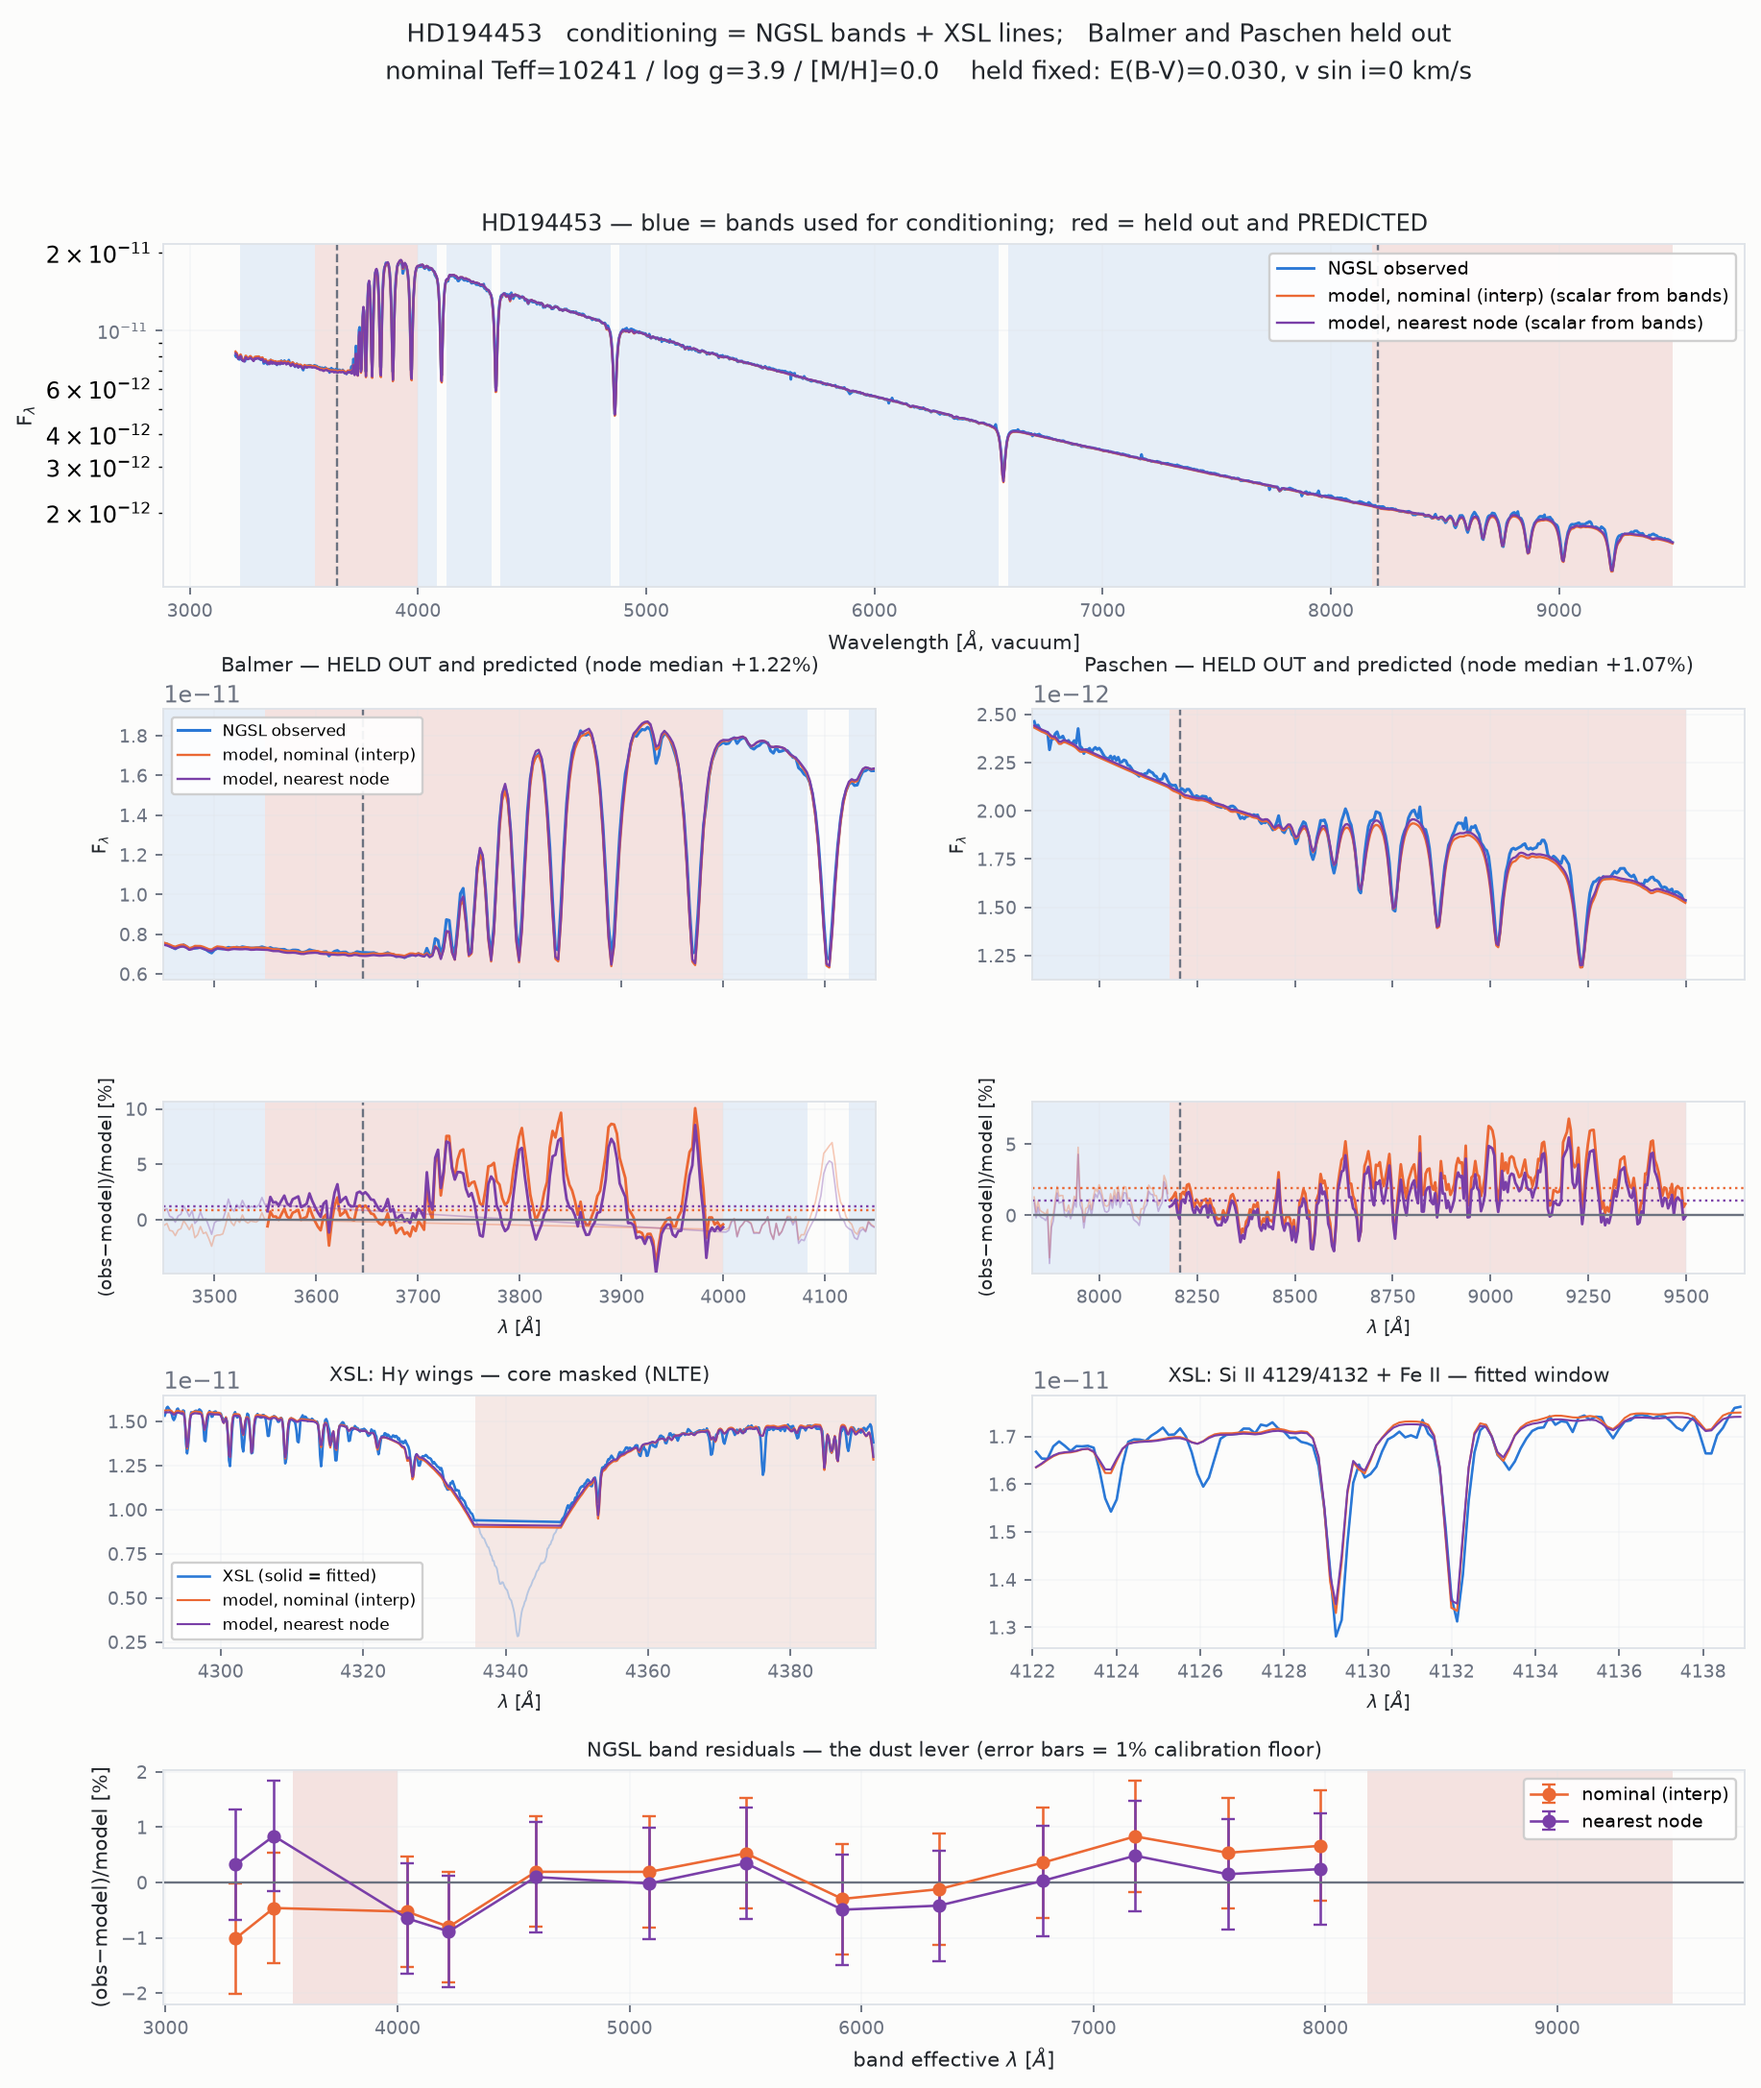
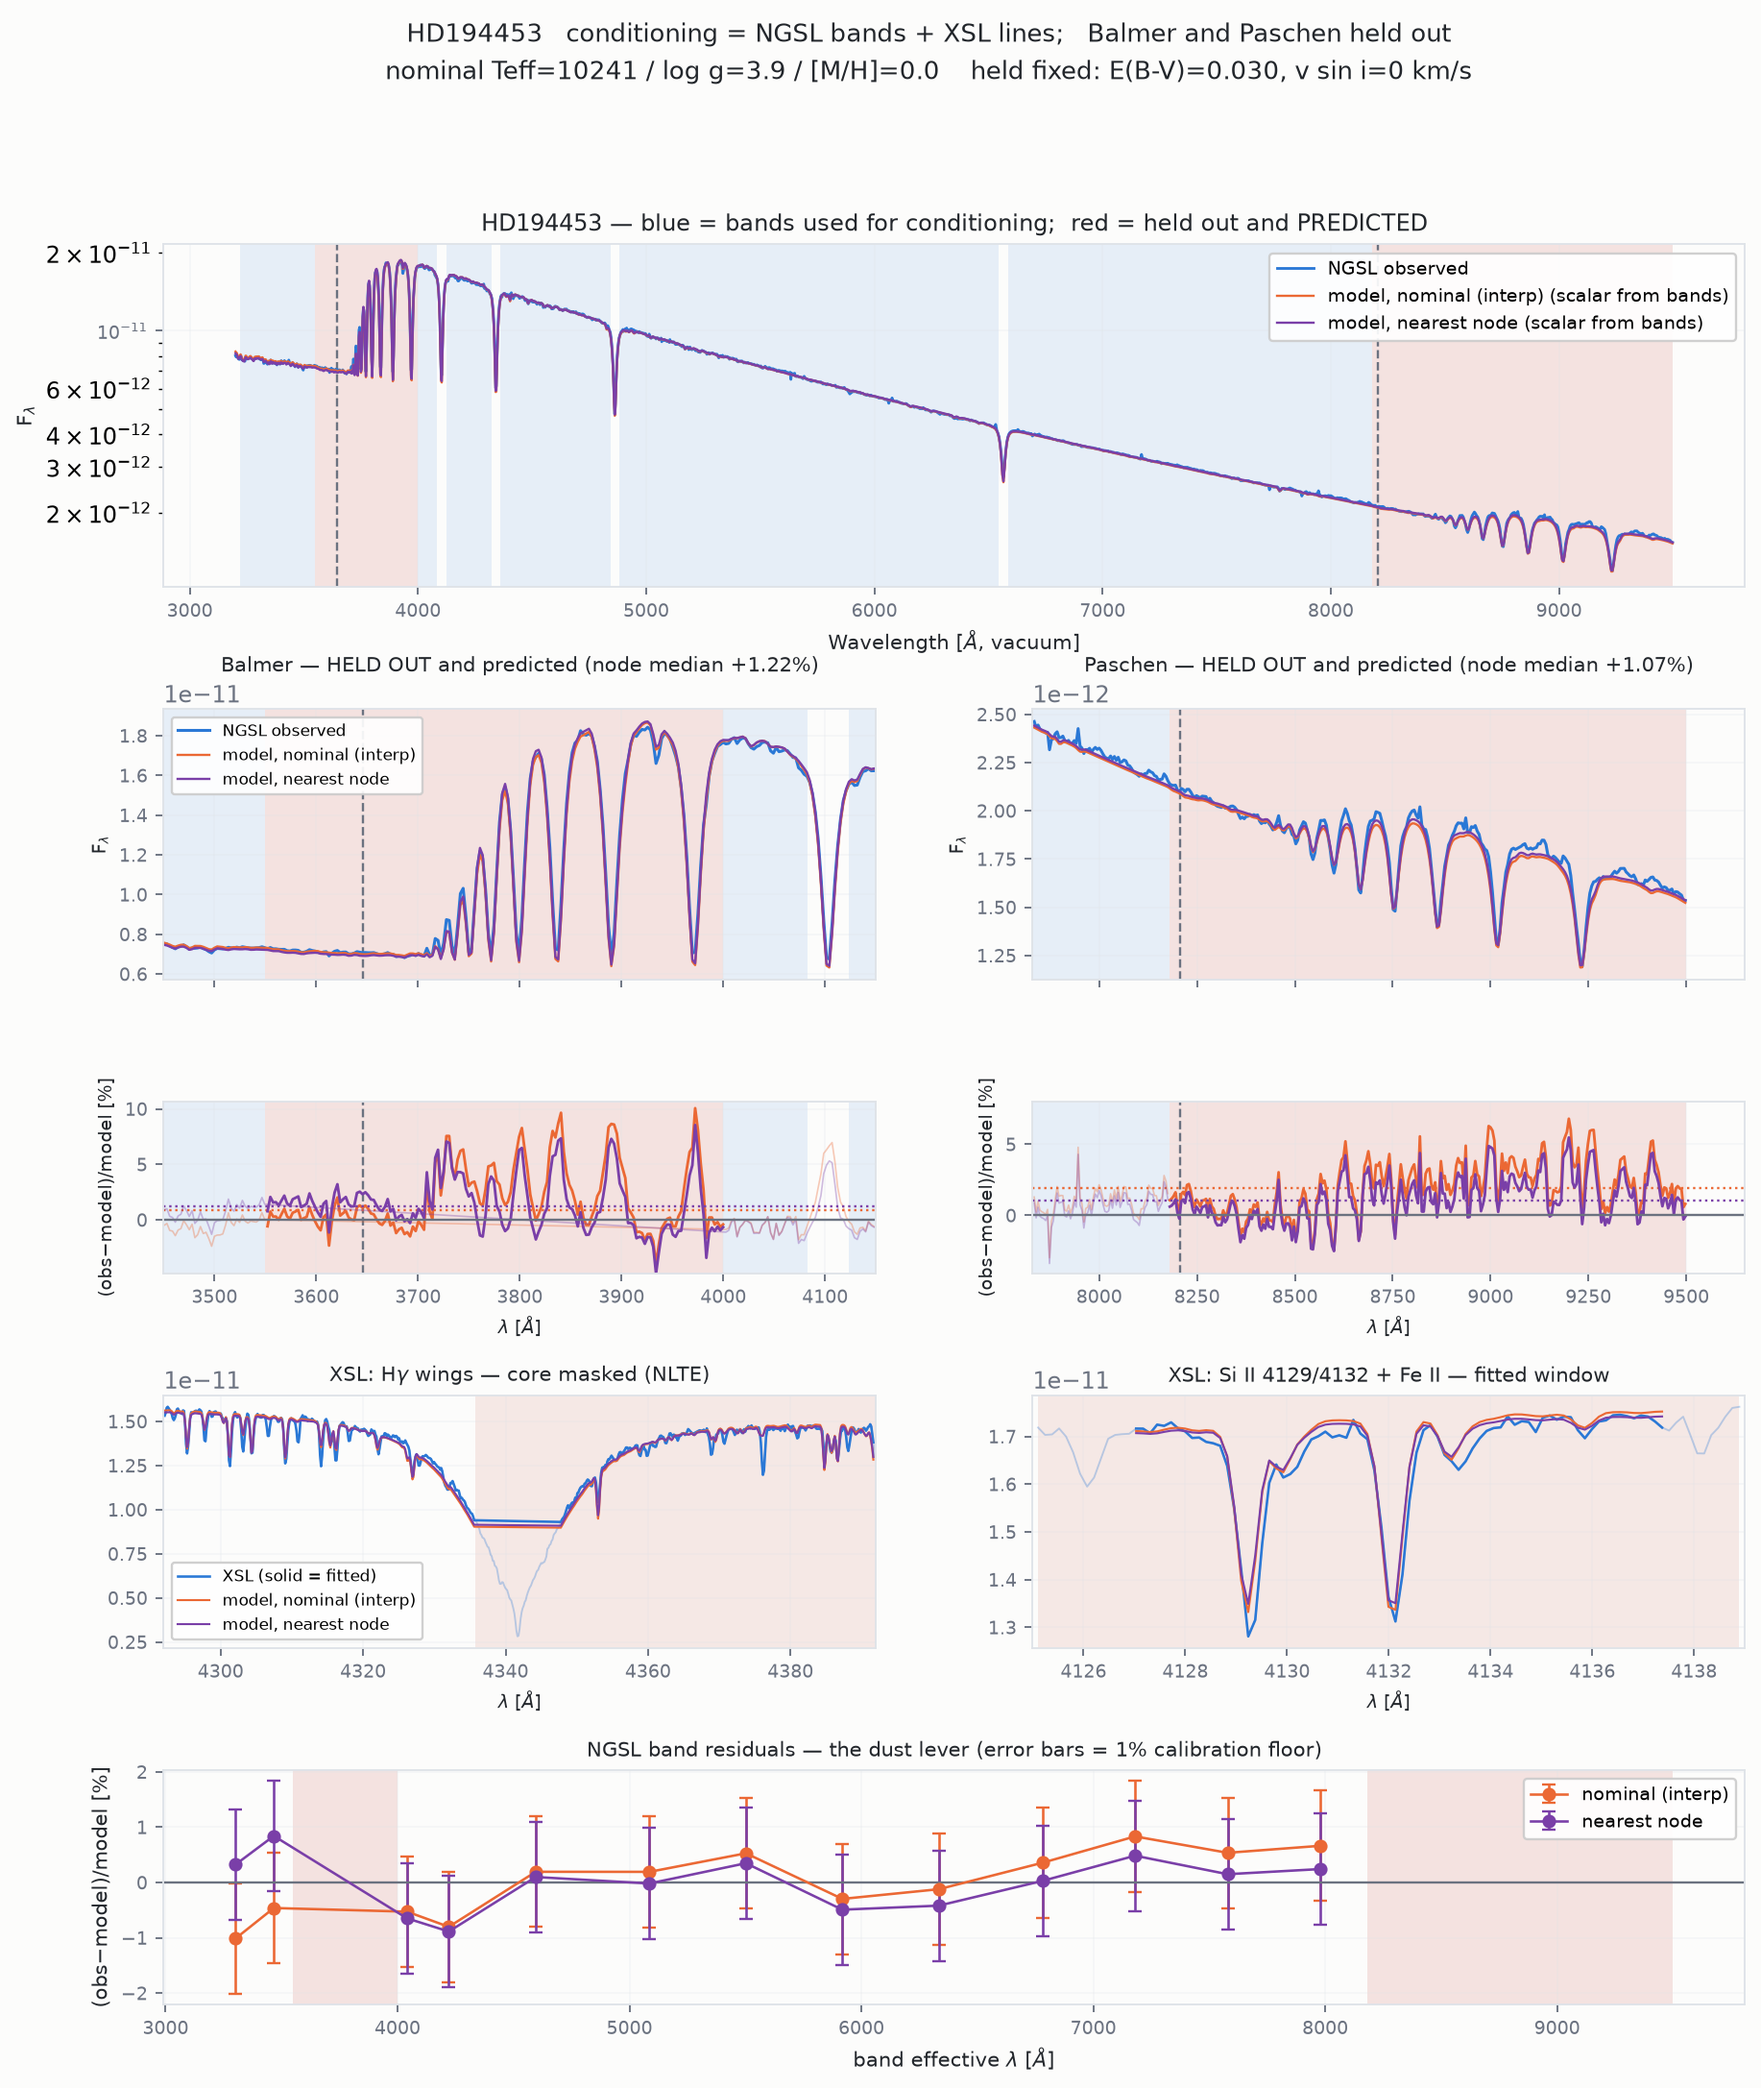
Exclude known-bad model regions from XSL fitting; magma heatmap
The request was to narrow the Si II 4129 window, and narrowing it alone
did nothing: the window lies wholly inside H-delta's +/-50 A window, so
those pixels are masked in through H-delta's red wing whatever the metal
window's edges are. n and chi^2/N came back byte-identical.

So the exclusion is now explicit. MODEL_BAD_REGIONS drops four ranges from
XSL fitting regardless of which window contains them:

  4120-4127  Fe II 4123.8 / 4125.9, residual 3.7-5.6% against ~1.5%
             across the rest of the window
  4137.5-4143  red edge of the Si II window, residual 2.8%
  4401-4407  predicted (K13) O I 3p 5P -> 16s 5S
  4824-4831  predicted (K13) O I 3p 3P -> 15d 3D and -> 16s 3S

The last two are the standing exclusion PLAN.md was asking for, so a
predicted Rydberg line can no longer enter a fit window silently.

It is gated by drop_bad, defaulting True. The prediction plots pass False,
because a region the models get wrong must not drive a fit but is exactly
what those plots exist to show -- without the gate the 4827 panel lost its
data and its verdict.

XSL fitting: 2342 pixels, chi^2/N 2.98, rms 1.85% (was 2476, 3.05, 1.93%).
The window itself is trimmed to 4127-4137, which still holds Si II 4129.22
and 4132.06, Fe II 4129.90 and Fe I 4133.22.

Also switches the Teff-E(B-V) surface to magma.

Changed region(s): [[0.5905, 0.678, 0.9945, 0.7705], [0.6838, 0.7397, 0.7148, 0.7705]]

diff --git a/fitting/observations.py b/fitting/observations.py
@@ -177,6 +177,22 @@ XSL_METAL_ORDER = 3             # one polynomial per arm across the metal window
 XSL_ARM_SPLIT = 5600.0          # UVB / VIS
 
 
+# Regions dropped from XSL fitting no matter which window contains them.
+#
+# A metal-window edge is not enough on its own: the 4127-4137 window lies wholly
+# inside H-delta's +/-50 A window, so narrowing it changed nothing -- those
+# pixels are masked in through H-delta's red wing regardless. Anything the models
+# get wrong has to be excluded explicitly.
+MODEL_BAD_REGIONS = [
+    (4401.0, 4407.0, 'predicted (K13) O I 3p 5P -> 16s 5S; the level is '
+                     'dissolved at photospheric density, see CAVEATS.md'),
+    (4824.0, 4831.0, 'predicted (K13) O I 3p 3P -> 15d 3D and -> 16s 3S, same'),
+    (4120.0, 4127.0, 'Fe II 4123.8 / 4125.9 poorly predicted: residual reaches '
+                     '3.7-5.6% against ~1.5% across the rest of the window'),
+    (4137.5, 4143.0, 'red edge of the Si II window, residual 2.8%'),
+]
+
+
 def subtract_intervals(interval, blocked, min_width=1.0):
     """(lo, hi) minus a list of blocked ranges -> the surviving pieces."""
     pieces = [list(interval)]
@@ -210,7 +226,12 @@ XSL_METAL_KEEP = {
 # interesting lines are Si II 4129.22 and 4132.06 -- the Si II 4128/4131 doublet
 # in the usual AIR naming, a signature of late-B/early-A stars -- plus Fe II
 # 4129.90 and Fe I 4133.22. Shifting blueward centres the window on those four.
-XSL_METAL_WINDOW = {4134.2: (4123.0, 4138.0)}
+#
+# Trimmed to 4127-4137 after looking at the residual bin by bin. The model is
+# poorly predictive at both edges: 4123-4126 reaches 3.7-5.6% (Fe II 4123.82 and
+# 4125.95) and 4138 reaches 2.8%, while 4127-4137 holds all four target lines and
+# the inter-line continuum stays within ~1.5%.
+XSL_METAL_WINDOW = {4134.2: (4127.0, 4137.0)}
 #
 # NOTE this window lies wholly inside H-delta's +/-50 A window, so those pixels
 # are fitted under H-DELTA's local continuum rather than the metal polynomial.
@@ -266,7 +287,8 @@ def xsl_fit_windows(core_mask=XSL_CORE_MASK, half_width=XSL_BALMER_HALFWIDTH,
 
 
 def load_xsl(star, exclude=None, core_mask=XSL_CORE_MASK,
-             half_width=XSL_BALMER_HALFWIDTH, metals='selected'):
+             half_width=XSL_BALMER_HALFWIDTH, metals='selected',
+             drop_bad=True):
     """XSL DR3 spectrum: vacuum, rest-frame, fitted only in named windows.
 
     Rest-frame means the RV is already removed, so it is FIXED at 0 -- unlike
@@ -329,6 +351,13 @@ def load_xsl(star, exclude=None, core_mask=XSL_CORE_MASK,
             covered |= (w >= lo_) & (w <= hi_)
     ok &= covered
 
+    # ... minus the regions the models are known to get wrong. Gated, because
+    # those regions must not drive a FIT but are exactly what a prediction plot
+    # exists to show: drop_bad=False keeps them visible.
+    if drop_bad:
+        for lo_, hi_, _why in MODEL_BAD_REGIONS:
+            ok &= ~((w >= lo_) & (w <= hi_))
+
     return Observation(
         name='xsl', star=star, wavelength=w, flux=f, uncertainty=e, mask=ok,
         resolution=('R_segments', xsl_resolution_segments()),
@@ -336,6 +365,7 @@ def load_xsl(star, exclude=None, core_mask=XSL_CORE_MASK,
         rv_fixed=0.0,
         meta=dict(xslid=row['xslid'], n_balmer=len(bal), n_metal=len(met),
                   core_mask=core_mask, half_width=half_width,
+                  bad_regions=[(a_, b_) for a_, b_, _ in MODEL_BAD_REGIONS],
                   segments=[(s['name'], s['order'], len(s['ranges']))
                             for s in segs]))
 

diff --git a/explore/plot_metal_lines.py b/explore/plot_metal_lines.py
@@ -72,10 +72,10 @@ def main():
     a = ap.parse_args()
 
     row, grid = sample_row(a.star), Grid()
-    # 'all' windows, not the fitted subset: features excluded from the fit
-    # because the models get them wrong are exactly the ones worth LOOKING
-    # at, so the prediction panels keep them.
-    obs = load_xsl(a.star, metals='all')
+    # 'all' windows AND drop_bad=False: features excluded from the fit because
+    # the models get them wrong are exactly the ones worth LOOKING at, so the
+    # prediction panels keep every one of them.
+    obs = load_xsl(a.star, metals='all', drop_bad=False)
     feats = top_features(a.n)
 
     teff = float(grid.teff[np.argmin(np.abs(grid.teff - float(row['teff_ngsl'])))])

diff --git a/explore/check_predict.py b/explore/check_predict.py
@@ -215,7 +215,7 @@ def figure(star, nb, spec, xs, held, results, xsl_cal, row, bands,
     if xs is not None:
         for col, (lo, hi, ttl) in enumerate((
                 (4292., 4392., r'XSL: H$\gamma$ wings — core masked (NLTE)'),
-                (4122., 4139., 'XSL: Si II 4129/4132 + Fe II — fitted window'))):
+                (4125., 4139., 'XSL: Si II 4129/4132 + Fe II — fitted window'))):
             axx = fig.add_subplot(gs[3, col])
             style(axx)
             inrange = (xs.wavelength > lo) & (xs.wavelength < hi)

diff --git a/explore/plot_ebv_teff.py b/explore/plot_ebv_teff.py
@@ -153,7 +153,7 @@ def main():
         style(ax)
         d = d - np.nanmin(d)
         from matplotlib.colors import LogNorm
-        im = ax.pcolormesh(X, Y, np.clip(d, 0.3, 300), cmap='viridis_r',
+        im = ax.pcolormesh(X, Y, np.clip(d, 0.3, 300), cmap='magma',
                            shading='nearest', alpha=.9,
                            norm=LogNorm(vmin=0.3, vmax=300))
         cs = ax.contour(X, Y, d, levels=LEVELS, colors='w', linewidths=1.1)

diff --git a/PLAN.md b/PLAN.md
@@ -156,9 +156,11 @@ plasma microfield dissolves, and the Si II entries the same scan flags are false
 positives (doubly excited, not Rydberg). Both windows are rejected from fitting
 in `XSL_METAL_REJECT` and kept in the prediction plots.
 
-Still to do: make that scan a standing exclusion so a predicted Rydberg line
-cannot enter a fit window silently, and check whether SYNTHE has an occupation
-probability cutoff that should already have removed them.
+Done: `MODEL_BAD_REGIONS` in `fitting/observations.py` now excludes both O I
+regions from XSL fitting regardless of which window contains them, gated by
+`drop_bad` so the prediction plots still show them. Still to do: check whether
+SYNTHE has an occupation probability cutoff that should already have removed
+these lines.
 
 ## Open decisions
 
